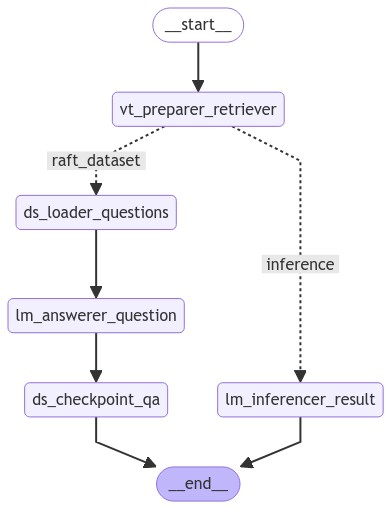
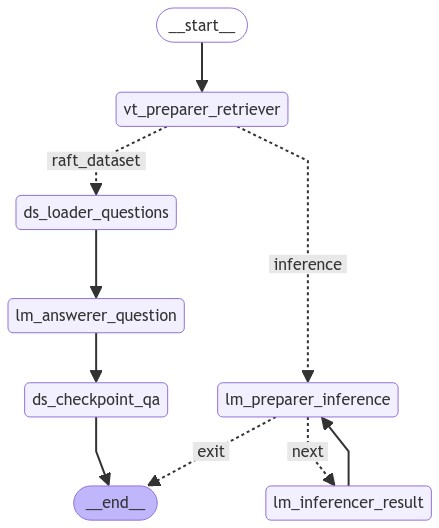
✨ Added loop for QA inference

diff --git a/dqchat/model/inference.py b/dqchat/model/inference.py
@@ -1,5 +1,100 @@
+from typing import Literal
+
+from langchain_core.prompts import (
+    ChatPromptTemplate,
+    PromptTemplate,
+    SystemMessagePromptTemplate,
+    HumanMessagePromptTemplate,
+)
+from langchain_core.documents import Document
+from transformers import AutoTokenizer
+from vllm import LLM, SamplingParams
+import orjson
+
+from ..const import RAG_PROMPT_TEMPLATE
 from ..core.state import State
 
 
-def inference(state: State, config: dict):
-    print("Inference!")
+def __prepare_prompt_template() -> ChatPromptTemplate:
+    return ChatPromptTemplate(
+        messages=[
+            SystemMessagePromptTemplate(
+                prompt=PromptTemplate(
+                    input_variables=["context"], template=RAG_PROMPT_TEMPLATE
+                )
+            ),
+            HumanMessagePromptTemplate(
+                prompt=PromptTemplate(
+                    input_variables=["question"],
+                    template="{question}<|eot_id|>\n\nAssistant:",
+                )
+            ),
+        ],
+        input_variables=["context", "question"],
+    )
+
+
+def retrieve_input(state: State, config: dict) -> Literal["exit", "next"]:
+    question = input("질문을 입력하세요: ")
+
+    if question == "exit":
+        state["question_for_inference"] = None
+        return "exit"
+
+    state["question_for_inference"] = question
+    return "next"
+
+
+def prepare_for_inference(state: State, config: dict) -> State:
+    if (
+        state["llm_for_inference"] is not None
+        and state["sampling_params_for_inference"] is not None
+    ):
+        return state
+
+    config = config["configurable"]
+    llm_model_name: str = config["model_name"]
+
+    tokenizer = AutoTokenizer.from_pretrained(llm_model_name)
+    terminators = [
+        tokenizer.eos_token_id,
+        tokenizer.convert_tokens_to_ids("<|eot_id|>"),
+    ]
+
+    llm = LLM(
+        model="output/t1/checkpoint-1400",
+        gpu_memory_utilization=0.7,
+        download_dir="../models",
+    )
+    sampling_params = SamplingParams(
+        temperature=0.6,
+        top_p=0.9,
+        max_tokens=2048,
+        stop_token_ids=terminators,
+    )
+
+    state["llm_for_inference"] = llm
+    state["sampling_params_for_inference"] = sampling_params
+
+    return state
+
+
+def inference(state: State, config: dict) -> State:
+    retriever = state["retriever"]
+    llm = state["llm_for_inference"]
+    sampling_params = state["sampling_params_for_inference"]
+
+    prompt = state.get("question_for_inference", "")
+    context = __format_docs(retriever.invoke(prompt))
+    prompt_template = __prepare_prompt_template()
+    prompt_template.bind(context=context, question=prompt)
+    outputs = llm.generate(prompts=prompt, sampling_params=sampling_params)
+    print(outputs)
+
+    return state
+
+
+def __format_docs(docs: list[Document]) -> str:
+    _doc_dicts = list(map(lambda doc: doc.dict(), docs))
+    _json = orjson.dumps(_doc_dicts).decode("utf-8")
+    return _json

diff --git a/dqchat/core/nodes.py b/dqchat/core/nodes.py
@@ -3,7 +3,12 @@ from enum import Enum
 from langchain_core.runnables.base import RunnableLike
 
 from ..data import load_questions, prepare_retriever, save
-from ..model import generate_raft_dataset, inference
+from ..model import (
+    generate_raft_dataset,
+    inference,
+    prepare_for_inference,
+    retrieve_input,
+)
 from ..utils.runmode_check import check_runmode
 
 
@@ -29,6 +34,10 @@ class Nodes(Enum):
     """Question answering dataset checkpointing node"""
     # ANSWER_VALIDATOR = "lm_validator_answer"
     # """Answer validation language model inference node"""
+    INFERENCE_PREPARER = "lm_preparer_inference"
+    """Inference preparation language model node"""
+    INPUT_RETRIEVER = "c_input_retriever"
+    """Input retriever conditional node"""
     RESULT_INFERENCER = "lm_inferencer_result"
     """Result inference language model inference node"""
 
@@ -66,6 +75,10 @@ class Nodes(Enum):
             return save
         # elif self is Nodes.ANSWER_VALIDATOR:
         #     return test
+        elif self is Nodes.INFERENCE_PREPARER:
+            return prepare_for_inference
+        elif self is Nodes.INPUT_RETRIEVER:
+            return retrieve_input
         elif self is Nodes.RESULT_INFERENCER:
             return inference
         else:

diff --git a/dqchat/core/graph.py b/dqchat/core/graph.py
@@ -23,9 +23,10 @@ class GraphBuilder:
             path=Nodes.RUNMODE_CHECKER.runnable,
             path_map={
                 "raft_dataset": Nodes.QUESTIONS_LOADER.key,
-                "inference": Nodes.RESULT_INFERENCER.key,
+                "inference": Nodes.INFERENCE_PREPARER.key,
             },
         )
+        # Dataset generator
         self.graph.add_edge(
             start_key=Nodes.QUESTIONS_LOADER.key, end_key=Nodes.QUESTION_ANSWERER.key
         )
@@ -34,7 +35,18 @@ class GraphBuilder:
             end_key=Nodes.QA_DATASET_CHECKPOINTER.key,
         )
         self.graph.add_edge(start_key=Nodes.QA_DATASET_CHECKPOINTER.key, end_key=END)
-        self.graph.add_edge(start_key=Nodes.RESULT_INFERENCER.key, end_key=END)
+        # Inference
+        self.graph.add_conditional_edges(
+            source=Nodes.INFERENCE_PREPARER.key,
+            path=Nodes.INPUT_RETRIEVER.runnable,
+            path_map={
+                "next": Nodes.RESULT_INFERENCER.key,
+                "exit": END,
+            },
+        )
+        self.graph.add_edge(
+            start_key=Nodes.RESULT_INFERENCER.key, end_key=Nodes.INFERENCE_PREPARER.key
+        )
 
         # Compile the graph
         compiled_graph = self.graph.compile()

diff --git a/dqchat/core/state.py b/dqchat/core/state.py
@@ -2,6 +2,7 @@ from typing import Optional, TypedDict
 
 from datasets import IterableDataset
 from langchain_core.retrievers import BaseRetriever
+from vllm import LLM, SamplingParams
 
 from ..const import (
     HF_DATASET_NAME,
@@ -18,6 +19,10 @@ from ..utils.runmode import RunMode
 
 
 class State(TypedDict):
+    question_for_inference: Optional[str]
+    llm_for_inference: Optional[LLM]
+    sampling_params_for_inference: Optional[SamplingParams]
+
     questions: Optional[IterableDataset]
     retriever: Optional[BaseRetriever]
     responses: list[RAFTResponse]

diff --git a/dqchat/model/__init__.py b/dqchat/model/__init__.py
@@ -1,2 +1,6 @@
-from .inference import inference as inference
+from .inference import (
+    inference as inference,
+    prepare_for_inference as prepare_for_inference,
+    retrieve_input as retrieve_input,
+)
 from .pipeline_builder import generate_raft_dataset as generate_raft_dataset
